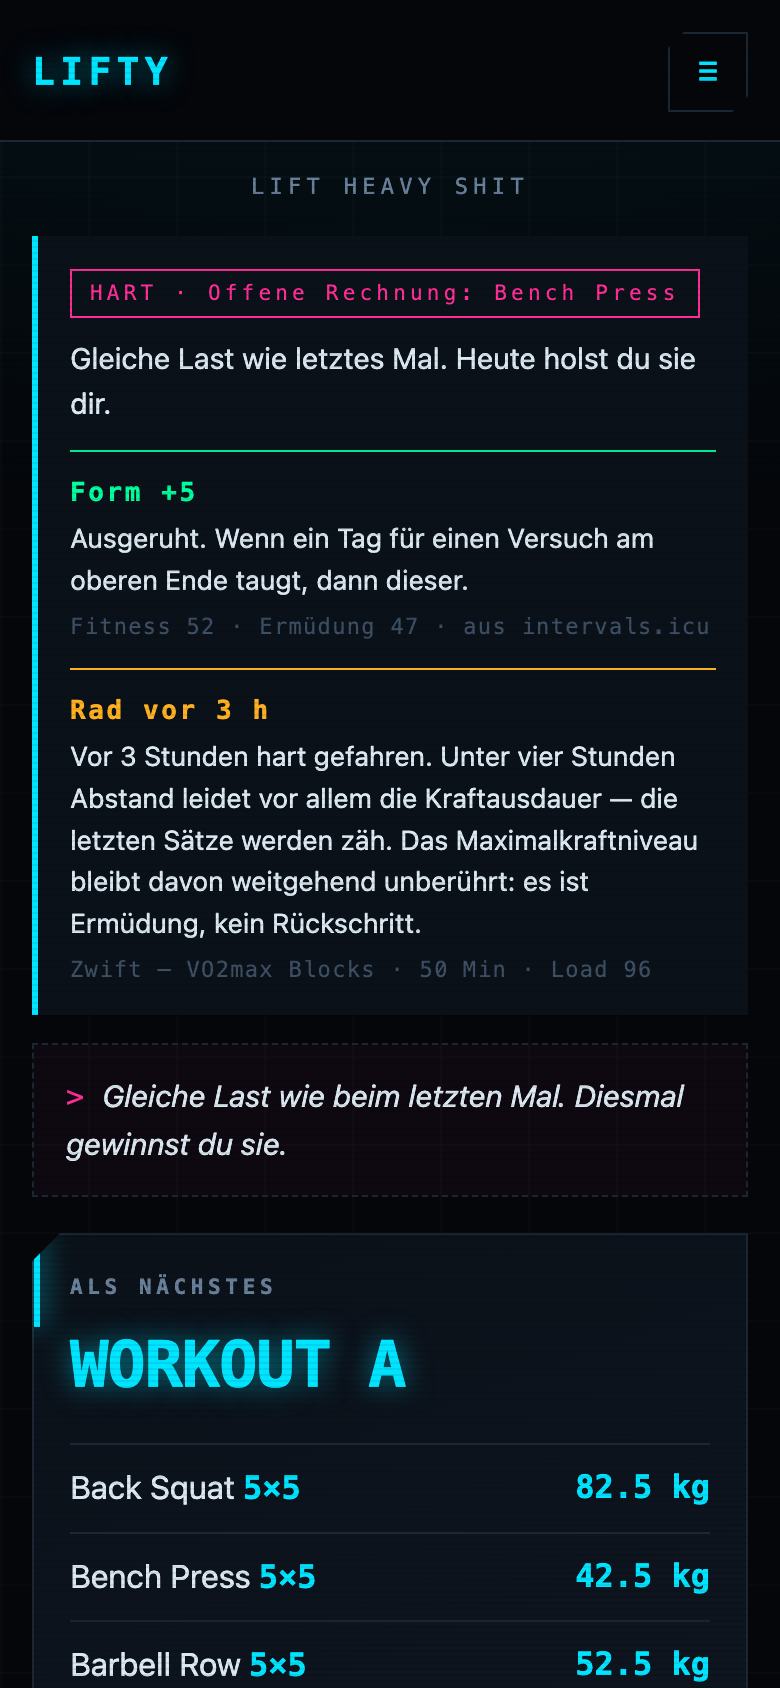
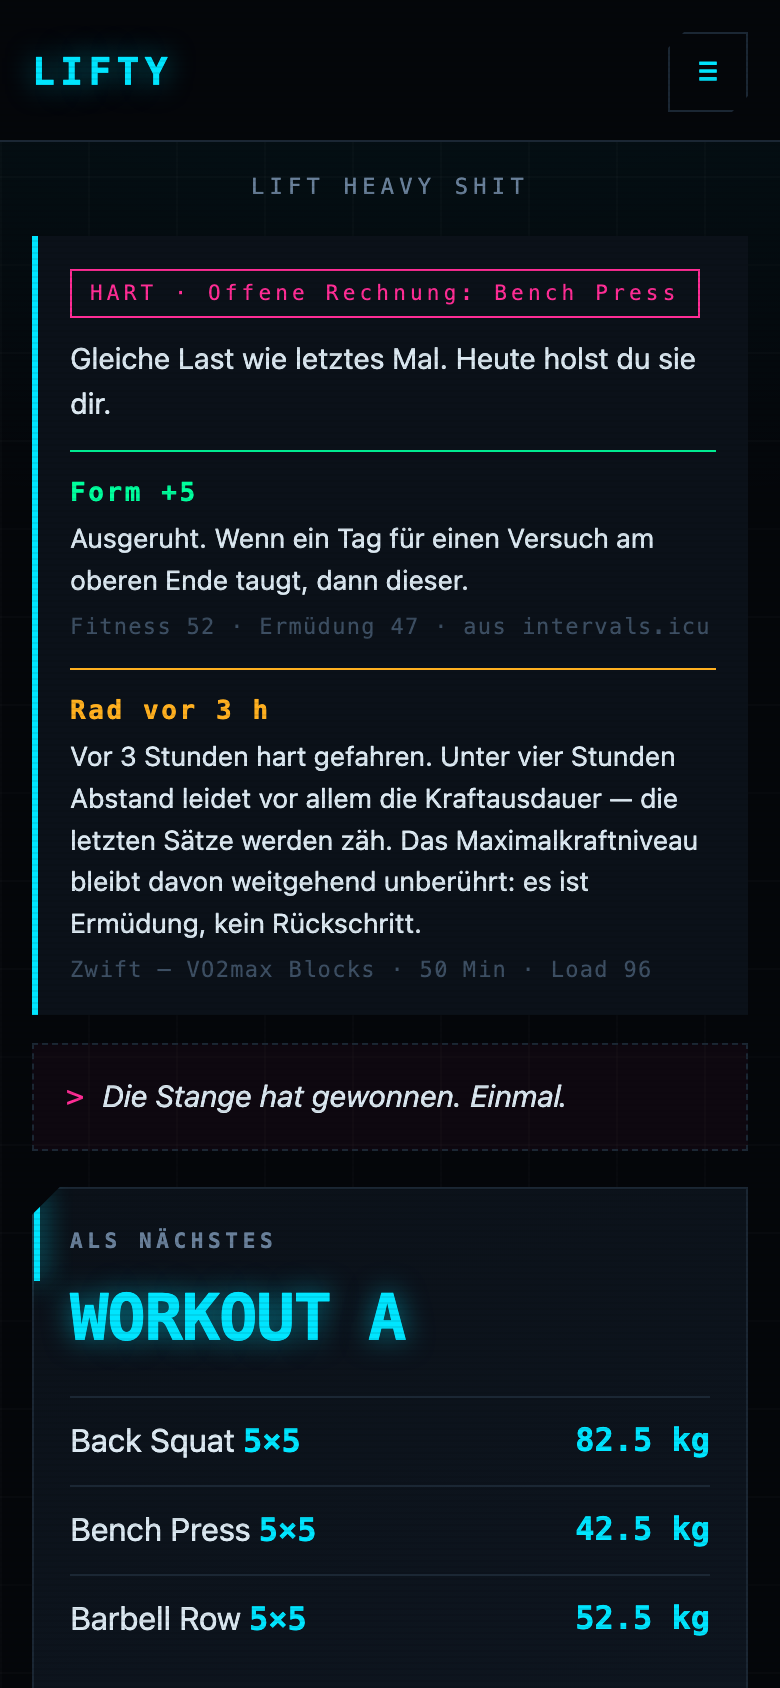
'Woche(n)' war beim Umbau des Abschluss-Screens zurueckgekommen

diff --git a/tools/shot.html b/tools/shot.html
@@ -149,6 +149,19 @@ rahmen.addEventListener('load', async () => {
     await warte(150);
     d.querySelectorAll('#warmup details')[1].scrollIntoView();
     w.scrollBy(0, -20);
+  } else if (szene === 'geschafft') {
+    $('start').click();
+    await warte(250);
+    for (let i = 0; i < 40; i++) {
+      const offen = [...d.querySelectorAll('#session-body .set')]
+        .filter(b => !b.classList.contains('done') && !b.classList.contains('partial'));
+      if (!offen.length) break;
+      tippe(offen[0]); await warte(40);
+    }
+    $('finish').click();
+    await warte(1200);
+    if ($('banner')) $('banner').hidden = true;
+    w.scrollTo(0, 0);
   } else if (szene === 'verlauf') {
     $('go-history').click();
     await warte(1200);

diff --git a/sw.js b/sw.js
@@ -1,6 +1,6 @@
 // Nur die App-Huelle wird gecacht. Trainingsdaten laufen immer live ueber
 // die GitHub-API — veraltete Gewichte im Studio waeren schlimmer als ein Ladebalken.
-const CACHE = 'lifty-2026-08-28.43';
+const CACHE = 'lifty-2026-08-28.44';
 const SHELL = ['./', 'index.html', 'css/style.css', 'js/app.js', 'js/program.js', 'js/store.js', 'js/intervals.js', 'js/coach.js', 'js/content.js', 'js/wod.js', 'js/stats.js', 'manifest.json'];
 
 self.addEventListener('install', e => {

diff --git a/js/app.js b/js/app.js
@@ -543,7 +543,7 @@ function renderDone(before, log) {
       </div>
     </details>
     <p class="spruch">${zeileFuerHeute(d)}</p>
-    <p class="fine">Nächstes Mal: Workout ${state.next}.${d.streak > 0 ? ` Serie: ${d.streak} Woche(n).` : ''}</p>`;
+    <p class="fine">Nächstes Mal: Workout ${state.next}.${d.streak > 0 ? ` Serie: ${d.streak} Woche${d.streak === 1 ? '' : 'n'}.` : ''}</p>`;
 }
 
 /* ============================ Verlauf ============================ */
